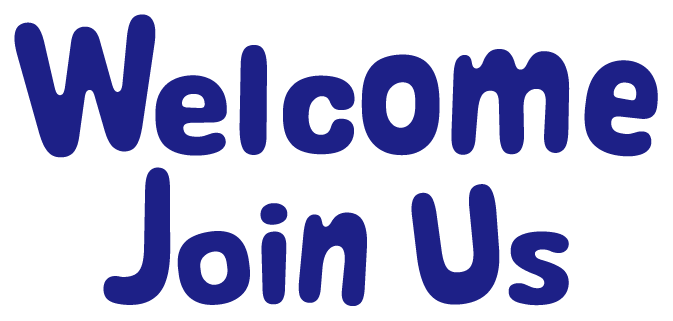
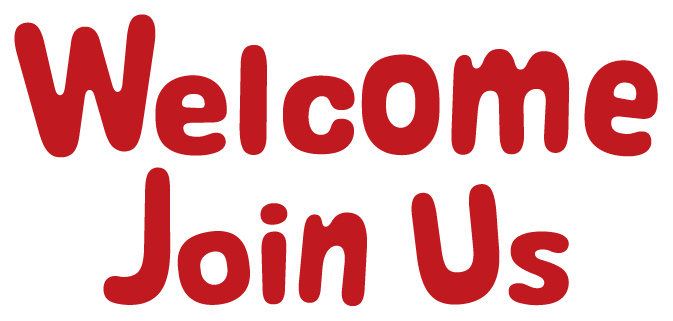
8

diff --git a/style.css b/style.css
@@ -11,7 +11,7 @@ body{
 
 .snowflake {
     max-width: 50px;
-    max-height: 50px;
+    max-height: 55px;
     position: absolute; /* 눈송이 감추기 */
     top: -50px;
     z-index: -3;
@@ -194,7 +194,7 @@ body{
     top:19%; /* 아이콘 위치 조정 */
     left: 5%;
     cursor: pointer;
-    color:#1D2087;
+    color:#C01A20;
     line-height: 700%;
 }
 
@@ -205,7 +205,7 @@ body{
     top:19%; /* 아이콘 위치 조정 */
     right: 6.7%;
     cursor: pointer;
-    color:#1D2087;
+    color:#C01A20;
     line-height: 700%;
 }
 
@@ -215,7 +215,7 @@ body{
     top:17.5%; /* 아이콘 위치 조정 */
     left: 10%;
     cursor: pointer;
-    color:#1D2087;
+    color:#C01A20;
     line-height: 700%;
 }
 
@@ -226,7 +226,7 @@ body{
     left: 50%;
     transform: translate(-50%,0);
     cursor: pointer;
-    color:#1D2087;
+    color:#C01A20;
     line-height: 700%;
 }
 
@@ -236,7 +236,7 @@ body{
     top:17.5%; /* 아이콘 위치 조정 */
     right: 10%;
     cursor: pointer;
-    color:#1D2087;
+    color:#C01A20;
     line-height: 700%;
 }
 #text_4_m {
@@ -245,7 +245,7 @@ body{
     top:89%; /* 아이콘 위치 조정 */
     left: 7%;
     cursor: pointer;
-    color:#1D2087;
+    color:#C01A20;
     line-height: 700%;
 }
 
@@ -256,7 +256,7 @@ body{
     left: 50%;
     transform: translate(-50%,0);
     cursor: pointer;
-    color:#1D2087;
+    color:#C01A20;
     line-height: 700%;
 }
 
@@ -266,12 +266,12 @@ body{
     top:89%; /* 아이콘 위치 조정 */
     right: 8%;
     cursor: pointer;
-    color:#1D2087;
+    color:#C01A20;
     line-height: 700%;
 }
 
 a{
-    color:#1D2087;
+    color:#C01A20;
 }
 @media screen and (min-width: 1000px) {
     #text_1, #text_2{

diff --git a/index.html b/index.html
@@ -19,11 +19,11 @@
             <div id="text_1">
                 <a href="itemlist.html">Itemlist</a><br>
                 <a href="photoalbum.html">Photo Album</a><br>
-                <a href="https://youtu.be/LmJZi-NGa7o?si=59SNBAXLRTUGfSos" target="_blank">Playlist</a></div>    
+                <a href="https://youtu.be/ch3Jkf-QutQ?si=g78Vi8WSowlcrqn_" target="_blank">Playlist</a></div>    
             
                 <div id="text_1_m"><a href="itemlist.html">Itemlist</a></div>
                 <div id="text_2_m"><a href="photoalbum.html">Photo Album</a></div>
-                <div id="text_3_m"><a href="https://youtu.be/LmJZi-NGa7o?si=59SNBAXLRTUGfSos" target="_blank">Playlist</a></div> 
+                <div id="text_3_m"><a href="https://youtu.be/ch3Jkf-QutQ?si=g78Vi8WSowlcrqn_" target="_blank">Playlist</a></div> 
                
 
             <div id="text_2">
